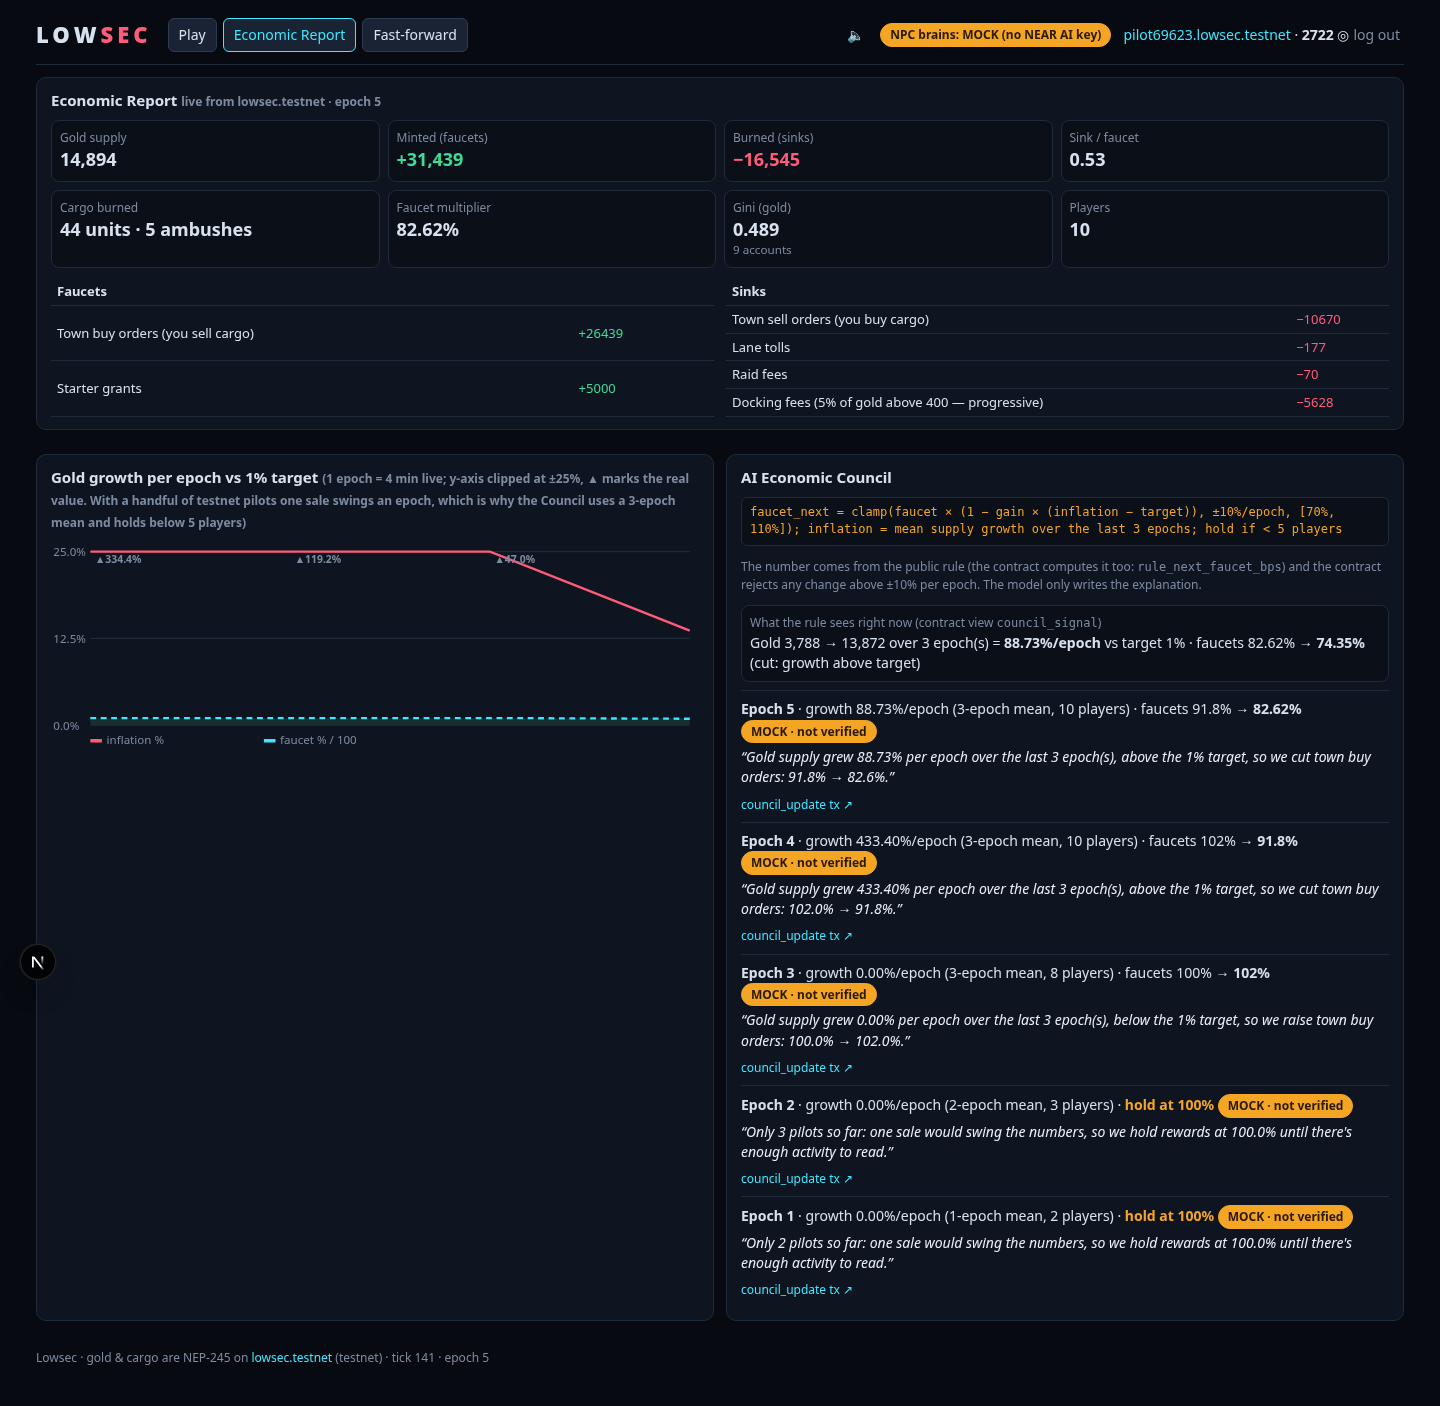
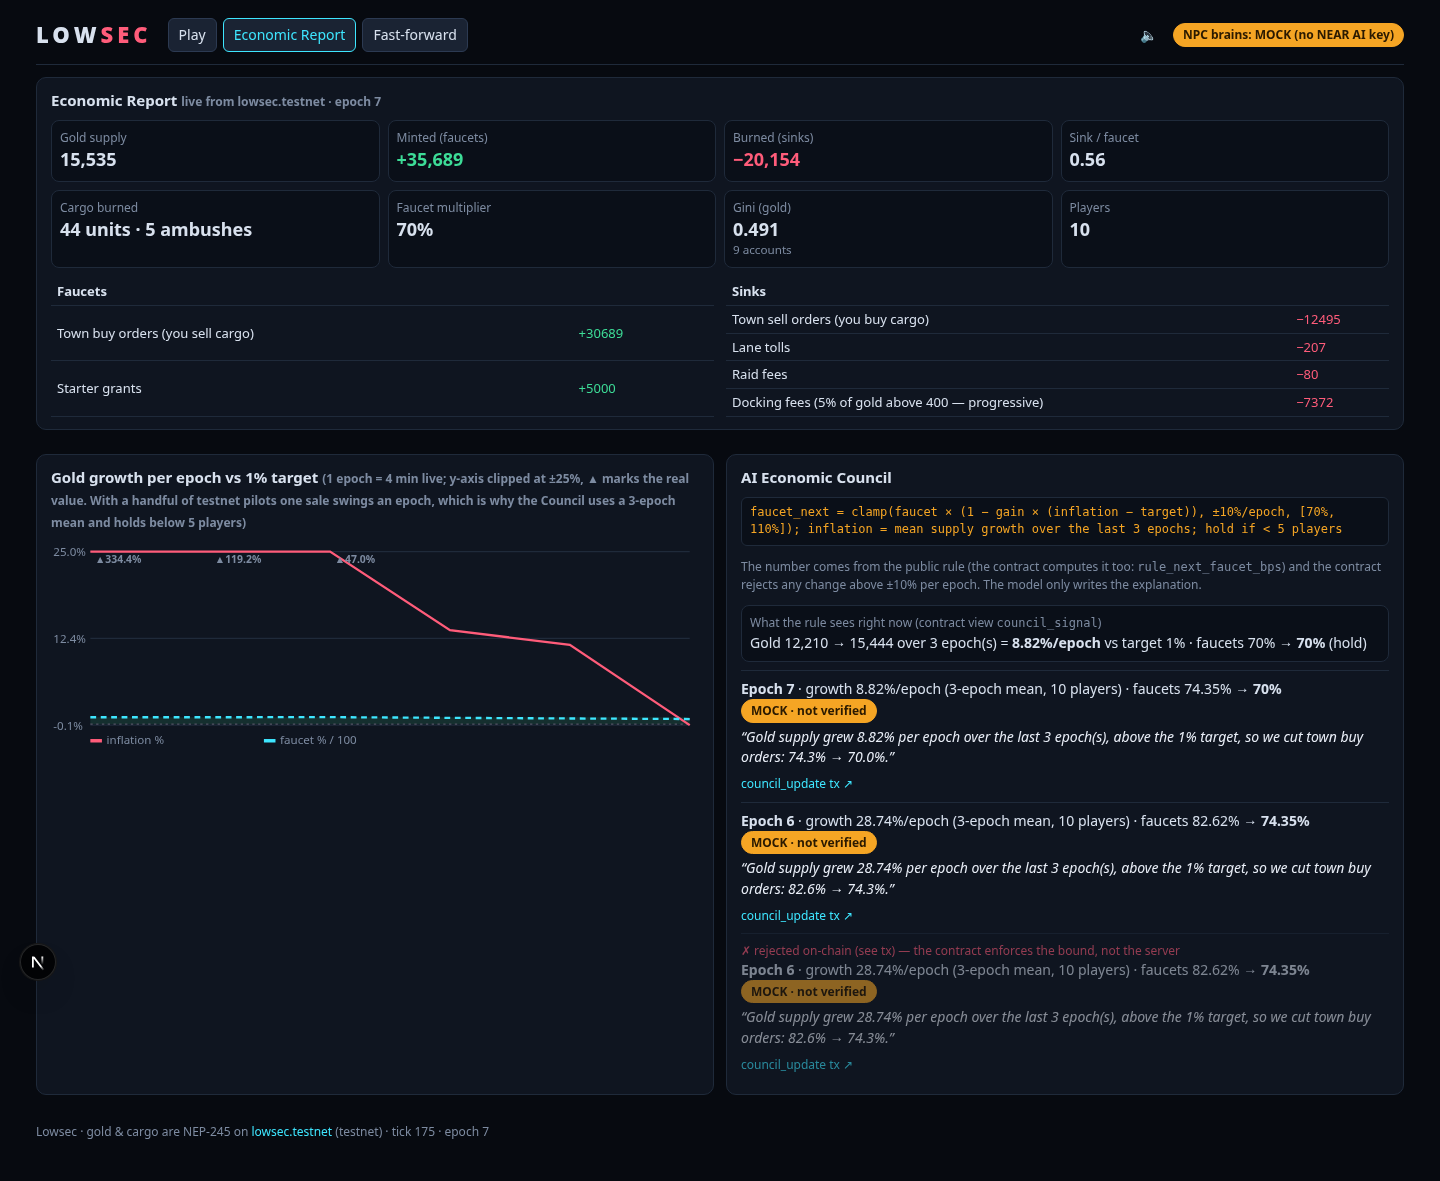
Report: mark council updates rejected on-chain; refresh report screenshot

diff --git a/apps/web/components/Report.tsx b/apps/web/components/Report.tsx
@@ -73,7 +73,8 @@ export function Report() {
         )}
         {r.council.length === 0 && <p className="muted">Waiting for the next epoch to close…</p>}
         {r.council.slice(0, 6).map((c: any) => (
-          <div key={c.ts} className="council-entry">
+          <div key={c.ts} className={c.ok ? "council-entry" : "council-entry rejected"}>
+            {!c.ok && <div className="red small">✗ rejected on-chain (see tx) — the contract enforces the bound, not the server</div>}
             <div><b>Epoch {c.epoch}</b> · growth {(c.inflationBps / 100).toFixed(2)}%/epoch ({c.windowEpochs}-epoch mean, {c.players} players) · {c.hold ? <span className="amber">hold at {c.prevFaucetBps / 100}%</span> : <>faucets {c.prevFaucetBps / 100}% → <b>{c.nextFaucetBps / 100}%</b></>} <AttestationBadge d={c} /></div>
             <div className="tt-reason">“{c.explanation}”</div>
             {c.tx && <a className="small" href={`${r.explorer}/txns/${c.tx}`} target="_blank" rel="noreferrer">council_update tx ↗</a>}

diff --git a/apps/web/app/globals.css b/apps/web/app/globals.css
@@ -94,3 +94,4 @@ footer { margin-top:16px; }
 .deposit .amt { width:70px; } .feed li.contract { color: var(--green); }
 .signal { background:#0a0f18; border:1px solid var(--line); border-radius:8px; padding:8px; margin:8px 0; } .amber { color: var(--amber); font-weight:700; }
 .chart .clipped { font-size:9px; font-weight:700; }
+.council-entry.rejected { opacity:.55; }
